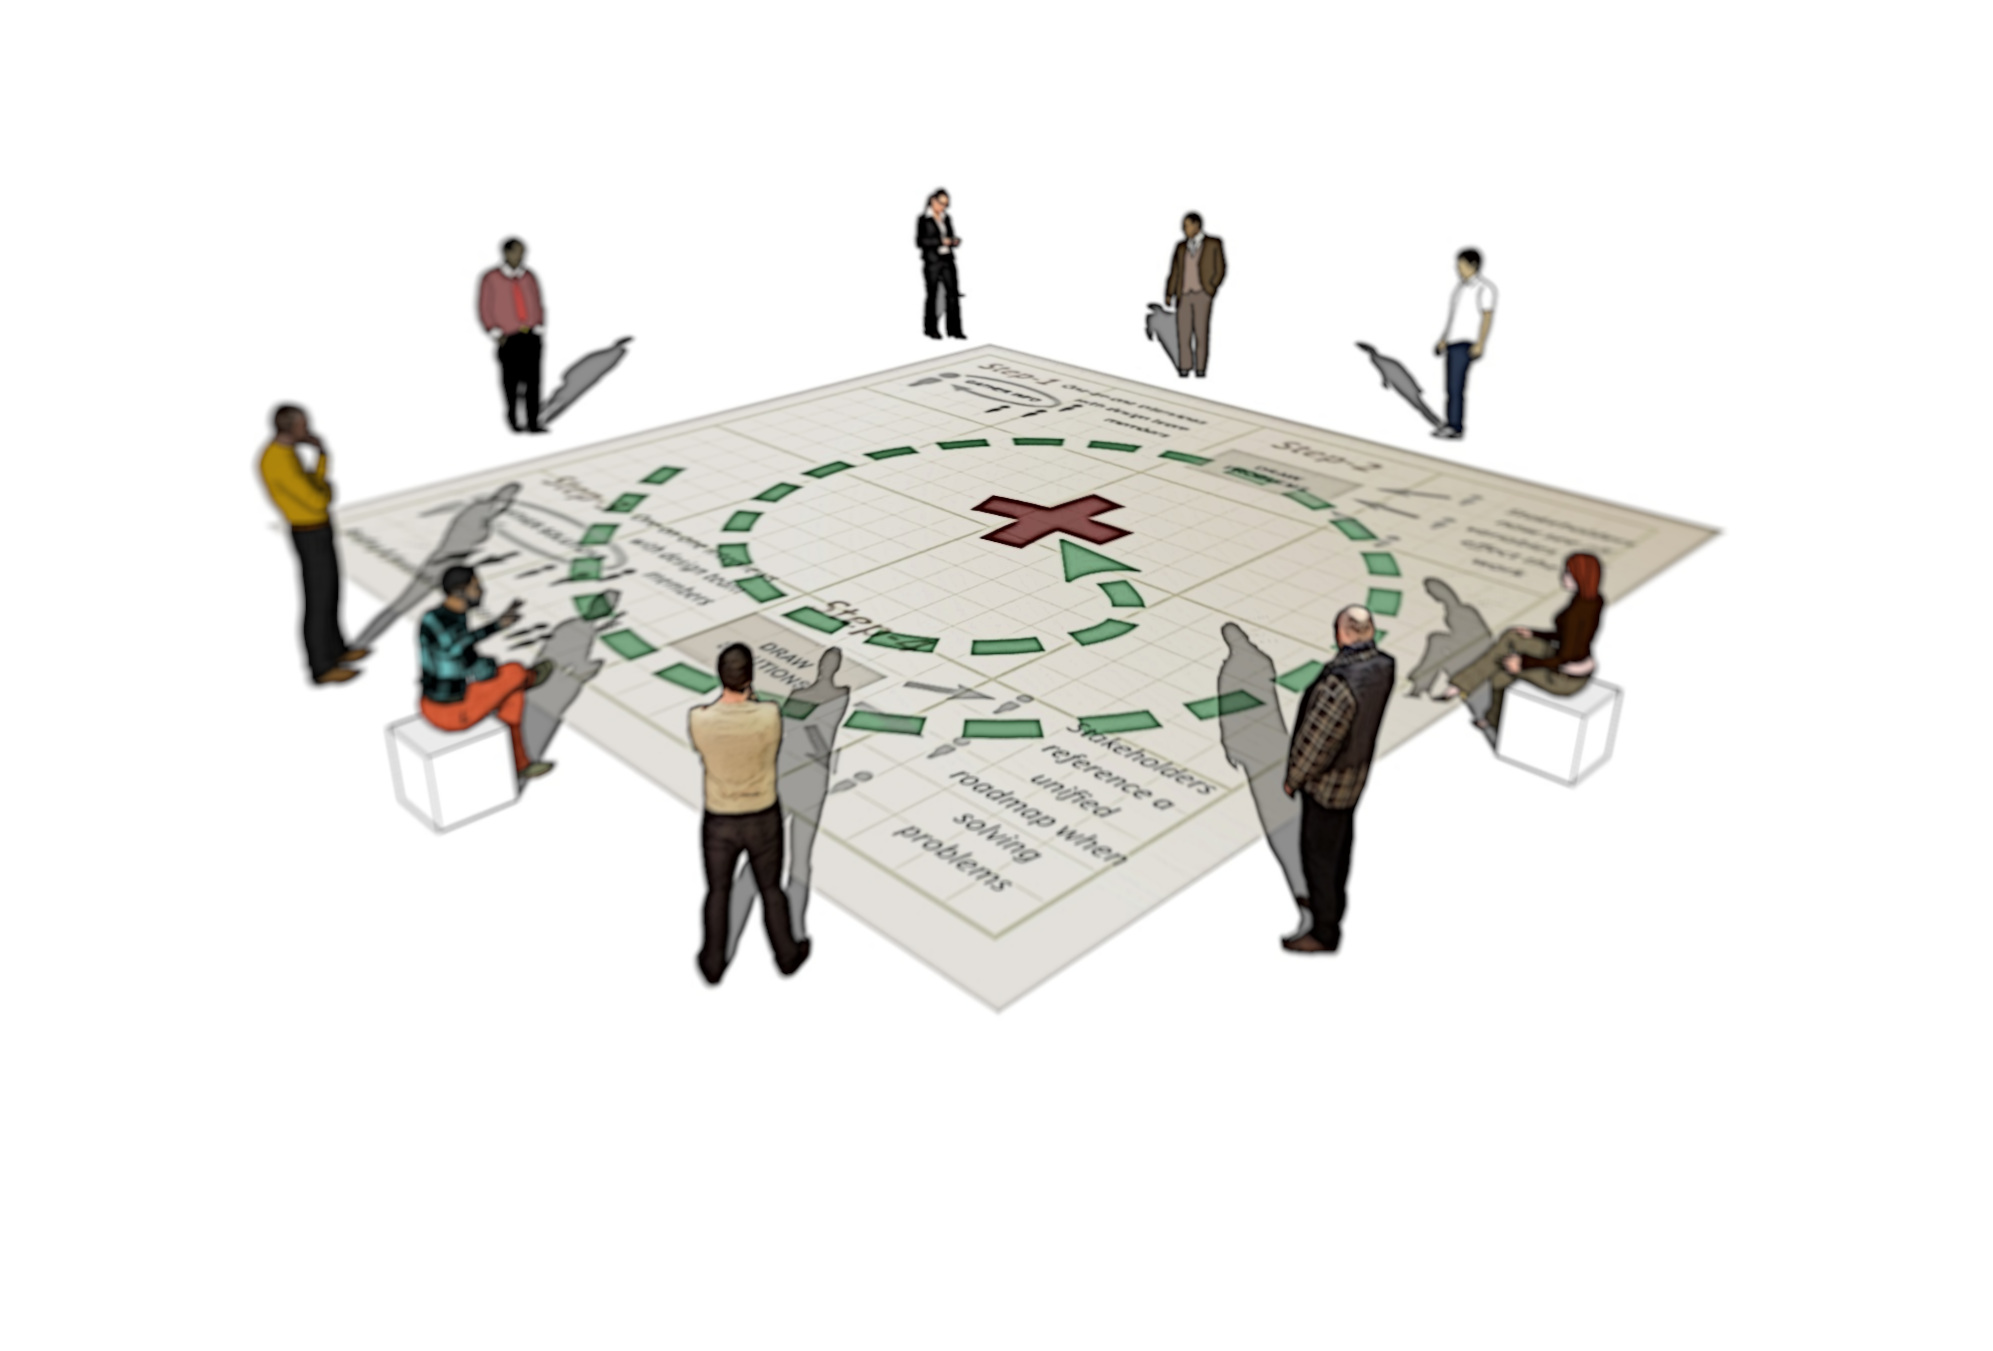
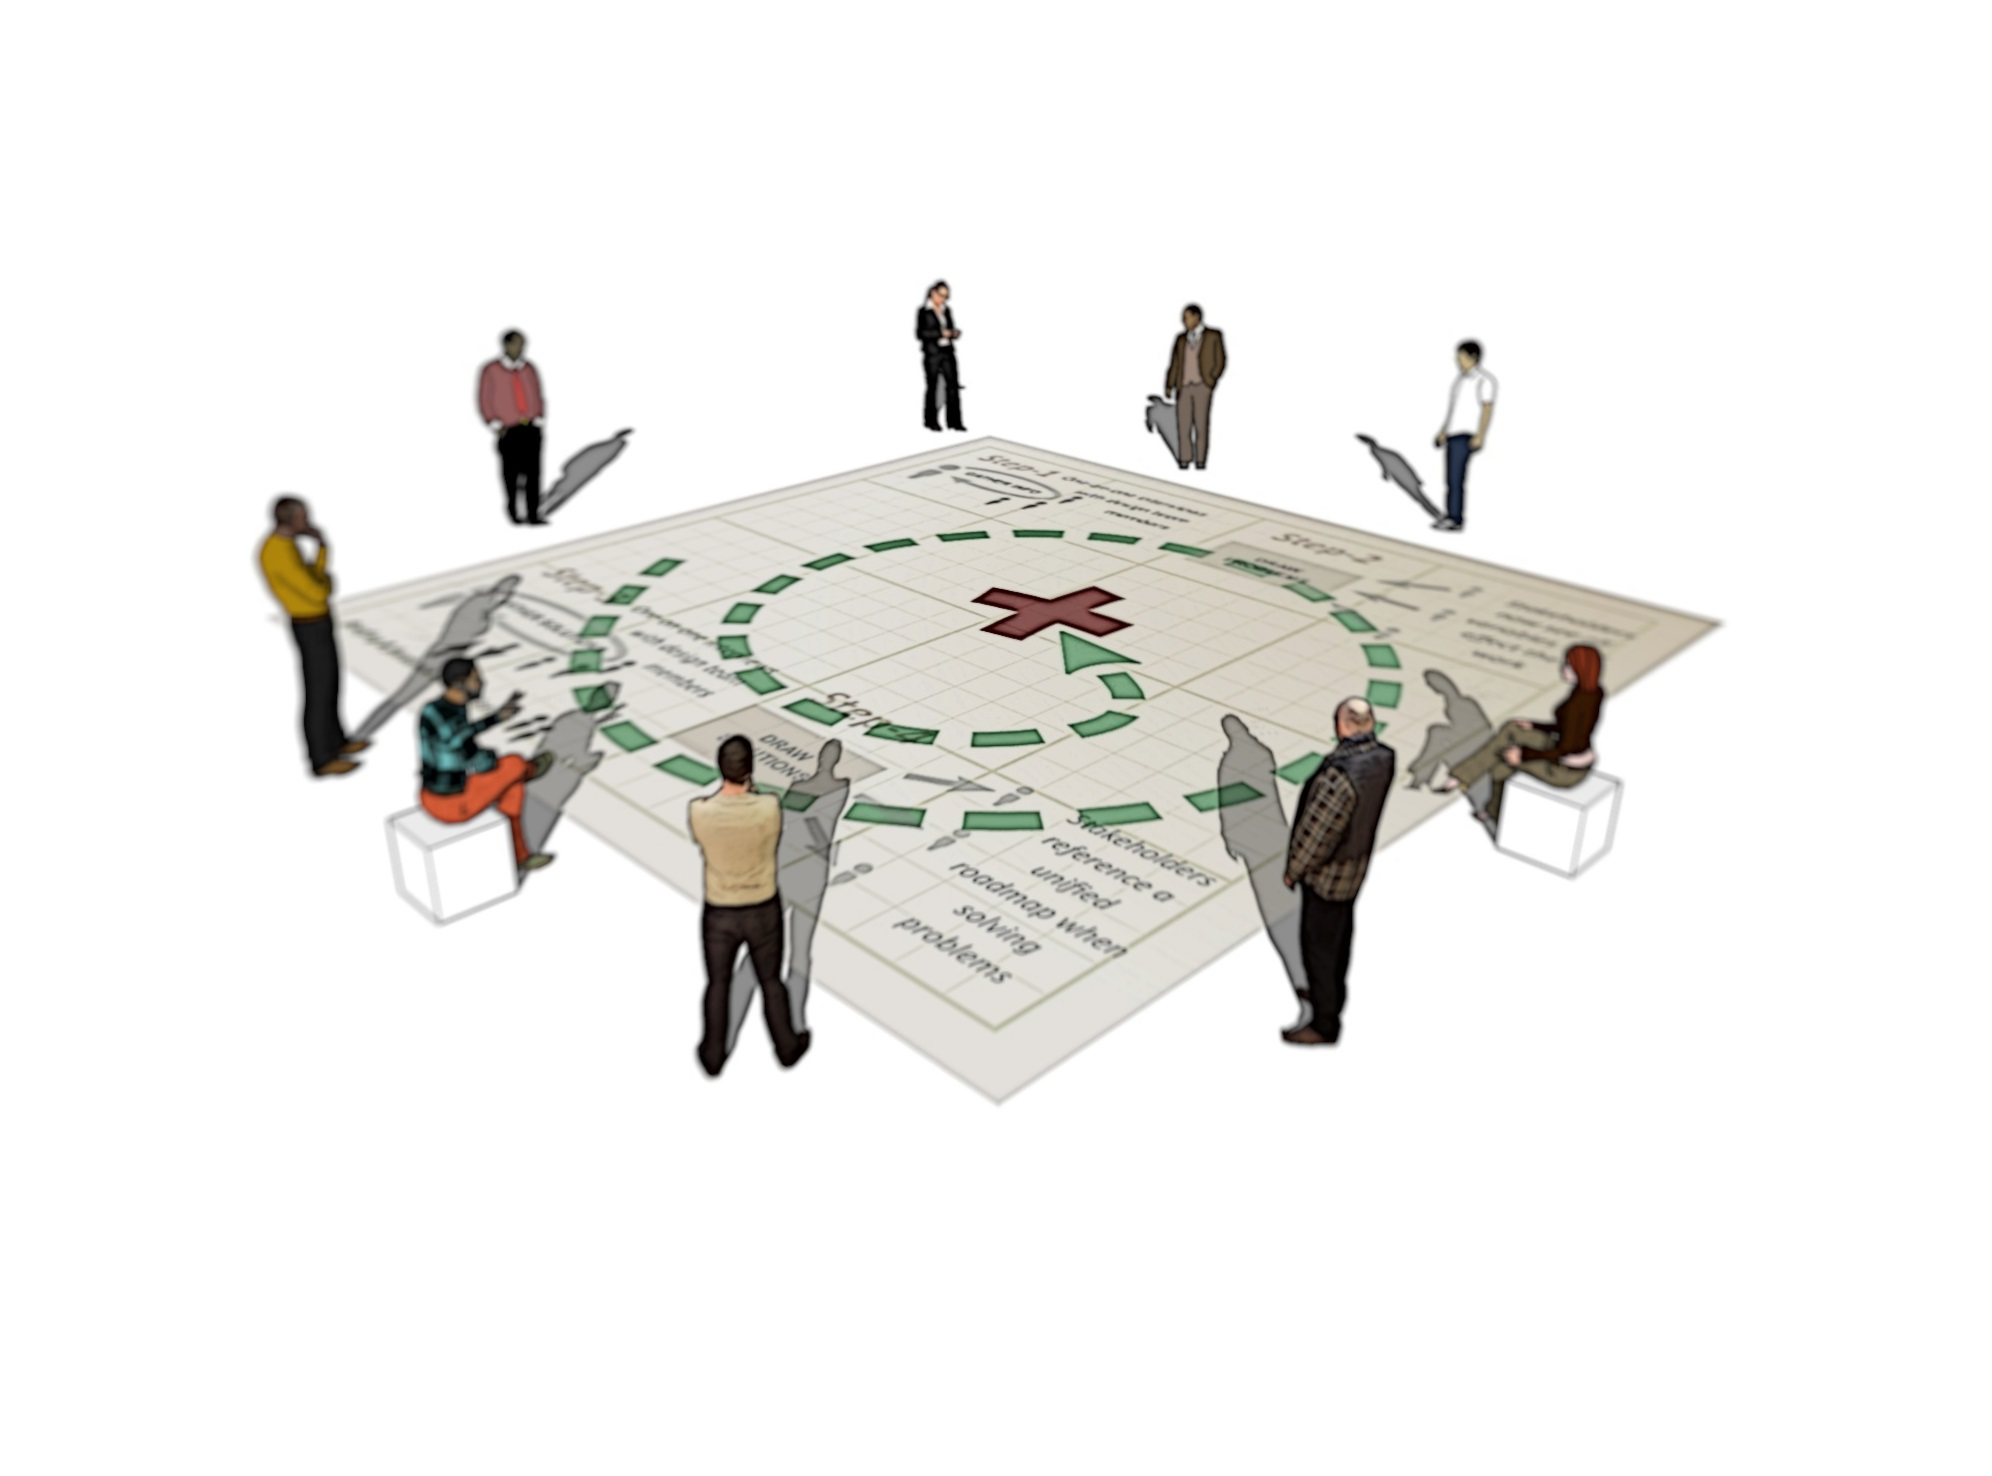
added thought-cloud image

Changed region(s): [[0.1245, 0.1244, 0.8715, 0.715]]

diff --git a/consulting.html b/consulting.html
@@ -102,6 +102,19 @@
 						</div>
 					</section>
 
+					<section>
+						<header>
+							<h3>Show everyone on the team everything they need to know</h3>
+							<p>Treasure mapping uses schematic visualizations to show your individual team members information they are currently unaware of, but should be in order for them to be successful.&nbsp;  In simplest terms, they <i>show all of the relevant variables, to all of the relevant stakeholders.</i></p>
+						</header>
+						<div class="content">
+							<div class="gallery">
+								<span class="image main" id="burd-desktop-pic" style="margin-left: 18px; margin-top: -50px"><img src="./documentation/images/blueprint-cloud-desktop.jpg" alt="" /></span>
+								<span class="image main" id="burd-mobile-pic"><img src="./documentation/images/blueprint-cloud-mobile.jpg" alt="" /></span>
+							</div>
+						</div>
+					</section>
+
 
 
 
